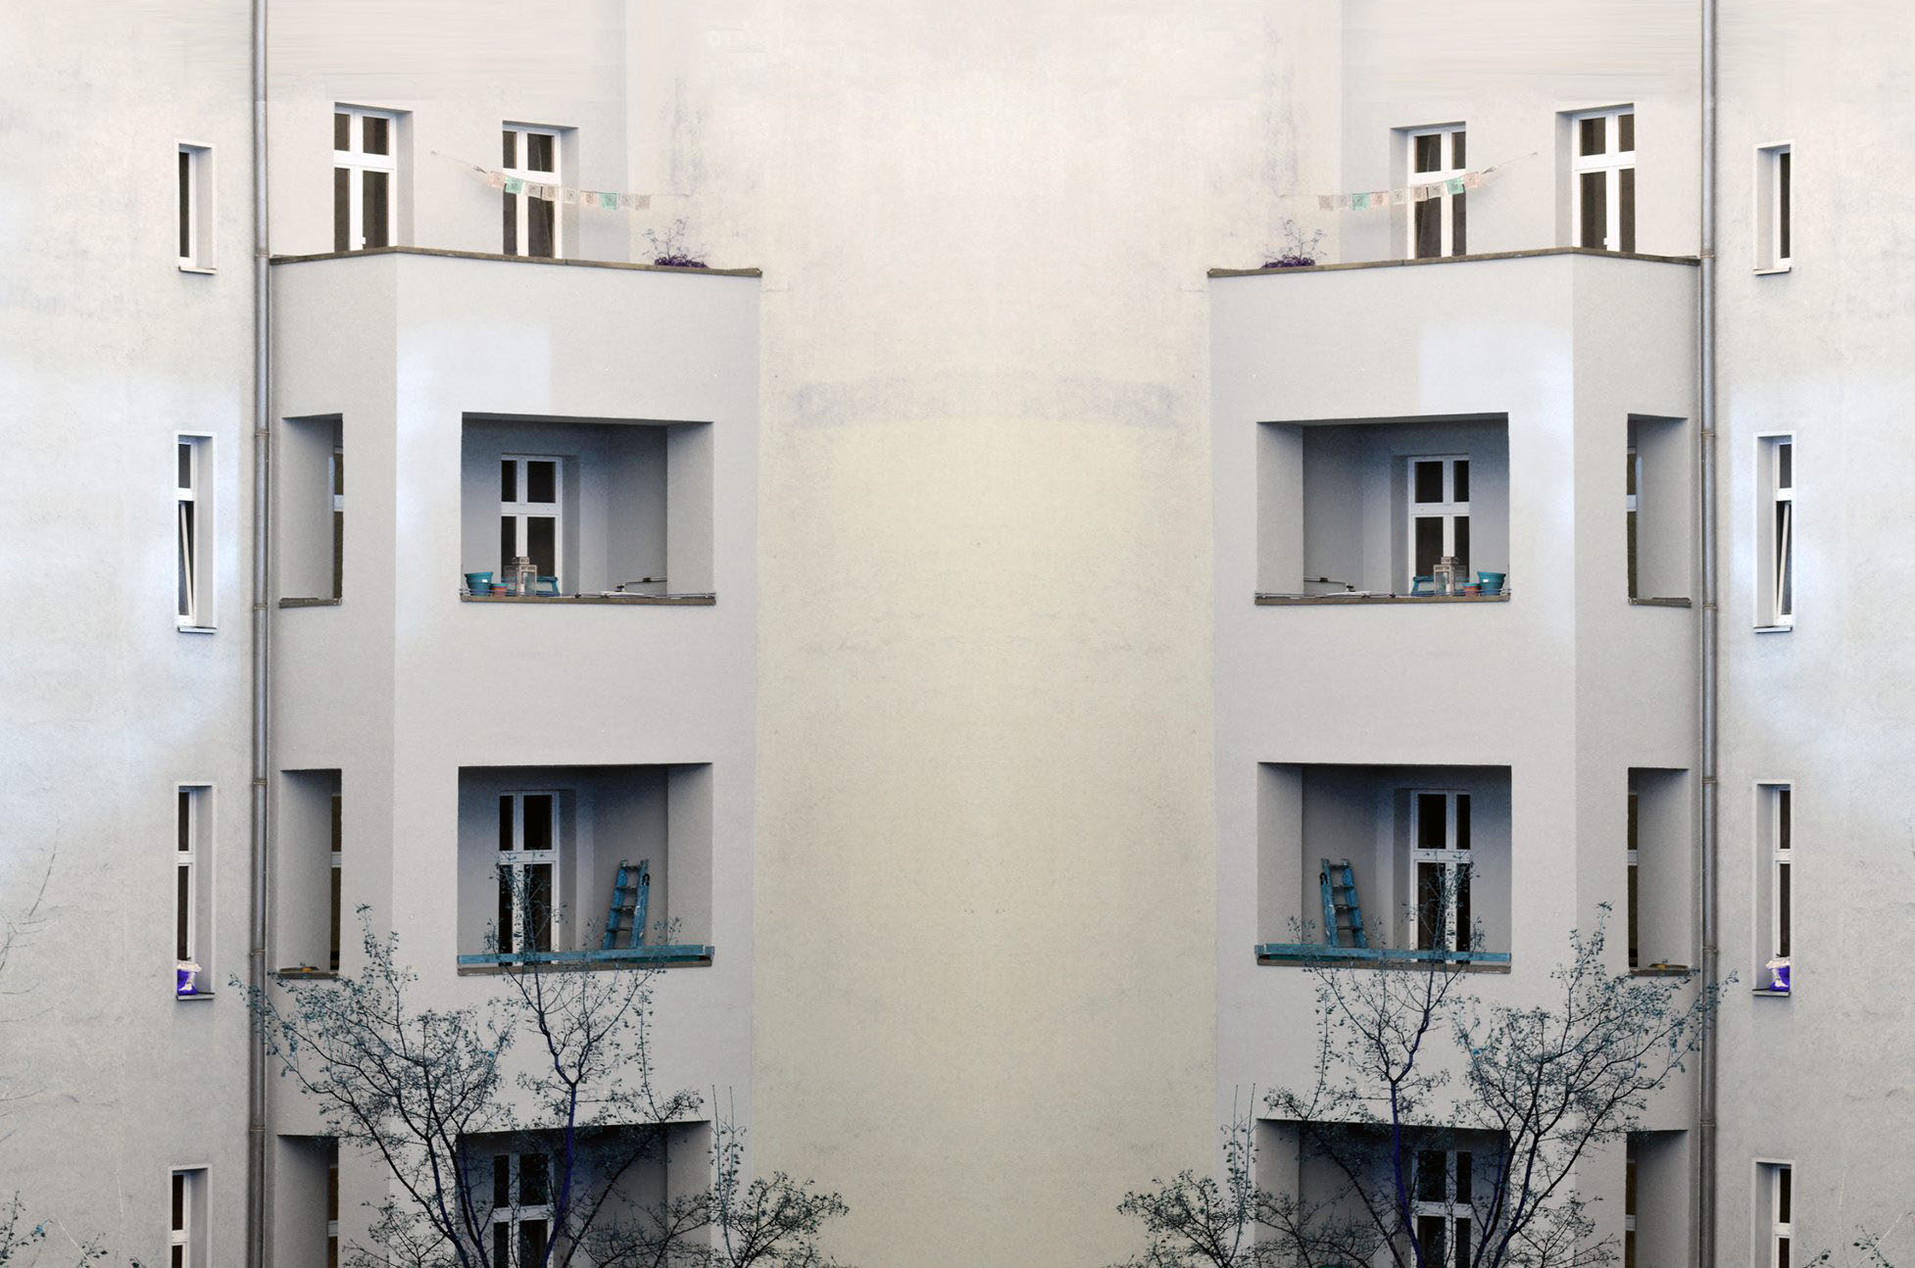
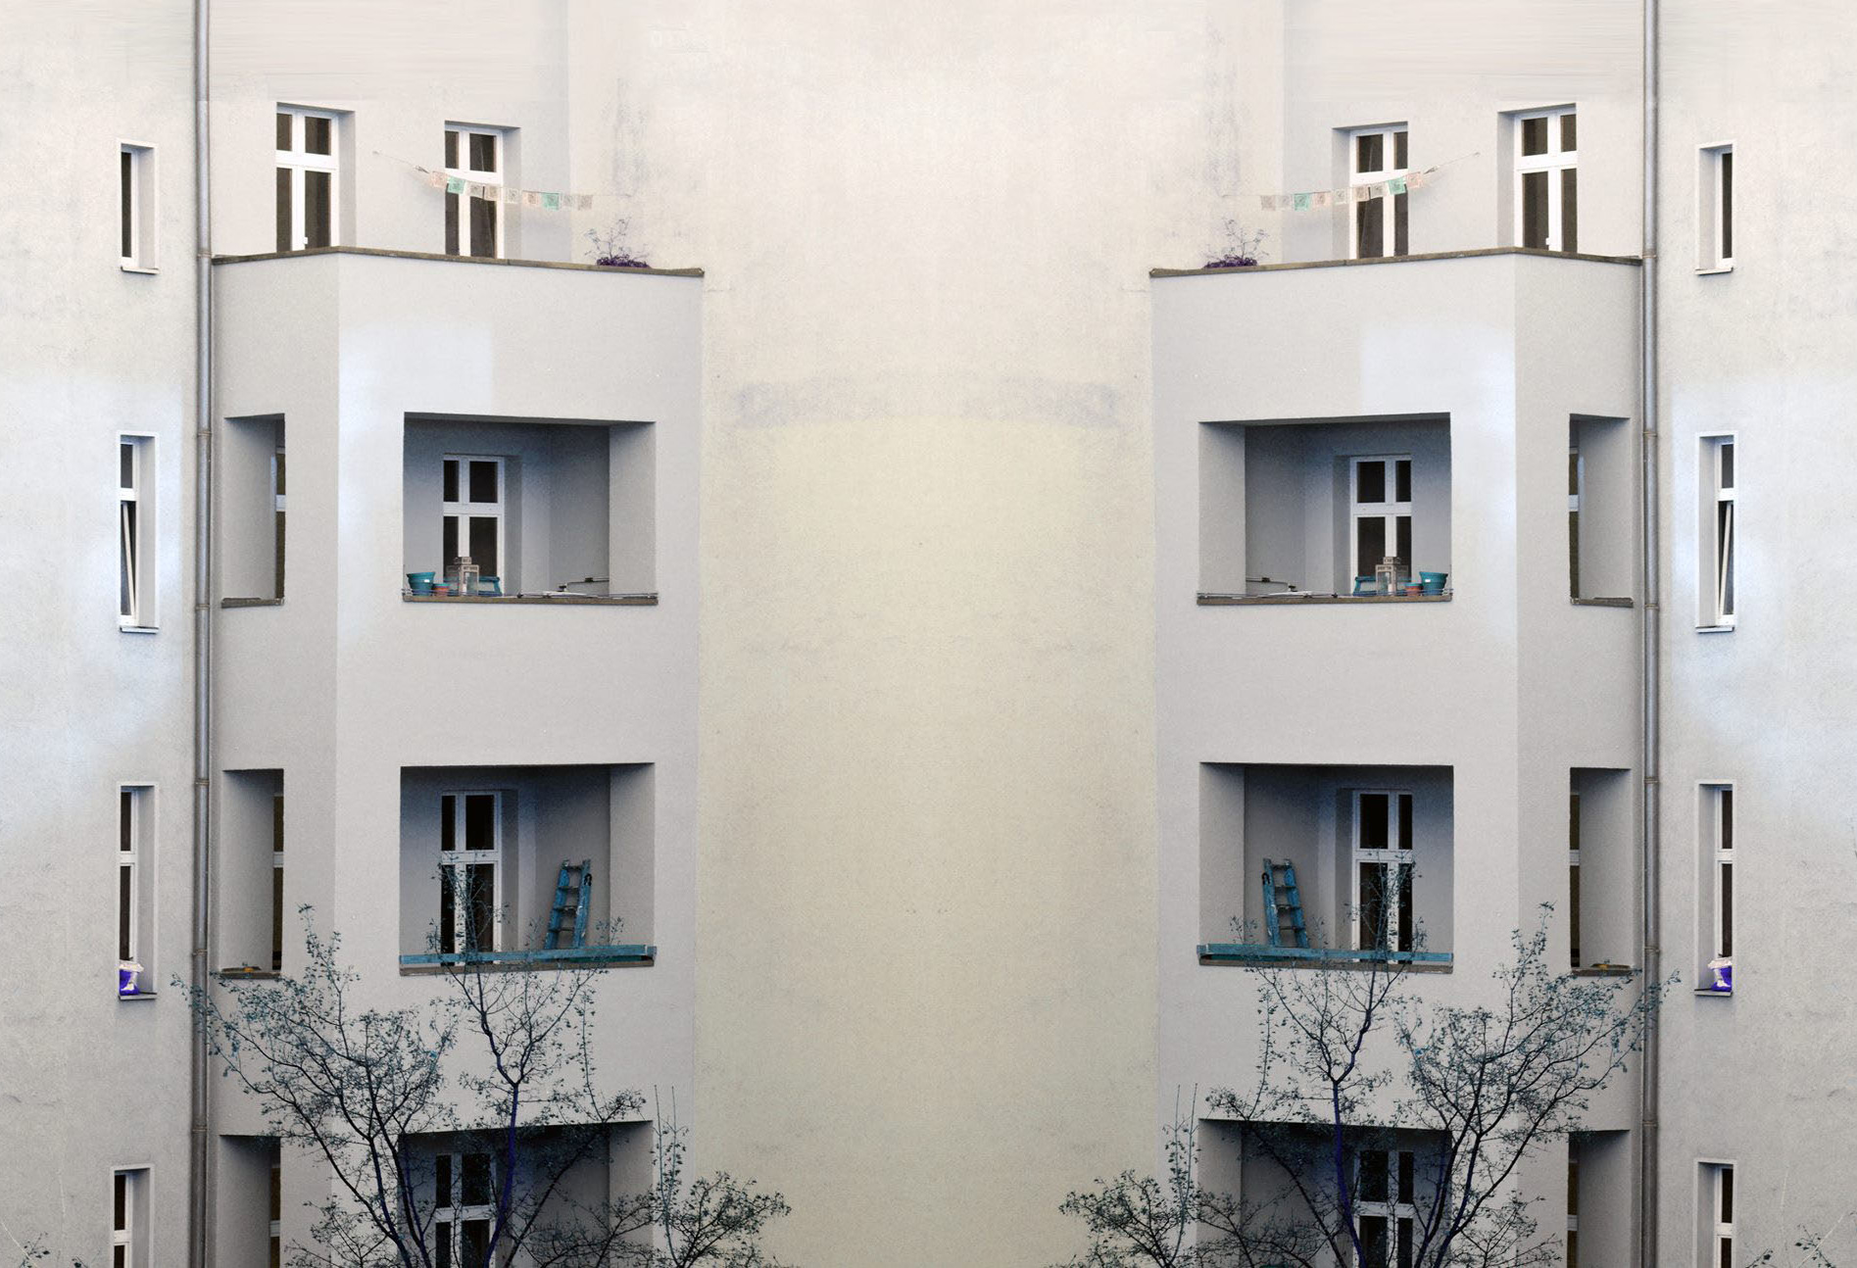
show images in υπηρεσίες without cropping

Changed region(s): [[0.0, 0.0, 0.4359, 1.0], [0.5604, 0.0, 0.9963, 1.0]]

diff --git a/index.html b/index.html
@@ -7,9 +7,10 @@
 		<link rel="icon" type="image/png" sizes="32x32" href="assets/title.png">
 		<link href="assets/css/styles.css" rel="stylesheet">
 
-		<link href="assets/fa/css/fontawesome.css" rel="stylesheet">
-		<link href="assets/fa/css/brands.css" rel="stylesheet">
-		<link href="assets/fa/css/solid.css" rel="stylesheet">
+		<link href="assets/fa/css/fontawesome.min.css" rel="stylesheet">
+		<link href="assets/fa/css/brands.min.css" rel="stylesheet">
+		<link href="assets/fa/css/solid.min.css" rel="stylesheet">
+		<link href="assets/fa/css/regular.min.css" rel="stylesheet">
 	</head>
 	<body>
 		<div class="sidebar d-flex flex-column flex-space-between br-1-gray p-40px">
@@ -32,6 +33,8 @@
 
 			<a class="cursor-pointer" href="assets/ΑΦΙΣΑ.pdf" target="_blank"><img src="assets/photos/espa.jpg" class="w-100 object-fit-contain" alt="ΕΣΠΑ 2014 - 2020" /> </a>
 		</div>
+
+
 		<div id="content" class="content">
 			<div role="main">
 				<div id="home" class="b-image d-flex flex-column align-items-center text-white">
@@ -40,19 +43,16 @@
 
 					<a href="#bio"><div class="bg-white text-black fs-18px br-4px p-10px mt-20px">Περισσότερα</div></a>
 				</div>
-			
+
+
 				<div id="bio" class="px-up-to-m-50px px-from-m-100px py-50px bb-2-gray">
 					<div>Βασιλική Βασιλοπούλου πολιτικός μηχανικός</div>
-
-					<ul class="mt-5px">
-						<li>
-							Απόφοιτος της Πολυτεχνικής σχολής του Πανεπιστημίου Πατρών το 2007, με μεταπτυχιακές σπουδές στον 
-							¨Αντισεισμικό σχεδιασμό των κατασκευών¨ το 2009 στο ίδιο Πανεπιστήμιο.
-						</li>
-						<li>Μέλος του Τ.Ε.Ε. από το 2007</li>
-						<li>Ελεγκτής Δόμησης από το 2012 με Α.Μ.624</li>
-						<li>Ενεργειακός επιθεωρητής από το 2013 με Α.Μ. 10025</li>
-					</ul>
+						<div class="ml-20px">
+							- Απόφοιτος της Πολυτεχνικής σχολής του Πανεπιστημίου Πατρών το 2007, με μεταπτυχιακές σπουδές στον ¨Αντισεισμικό σχεδιασμό των κατασκευών¨ το 2009 στο ίδιο Πανεπιστήμιο.
+						</div>
+						<div class="ml-20px">- Μέλος του Τ.Ε.Ε. από το 2007</div>
+						<div class="ml-20px">- Ελεγκτής Δόμησης από το 2012 με Α.Μ.624</div>
+						<div class="ml-20px">- Ενεργειακός επιθεωρητής από το 2013 με Α.Μ. 10025</div>
 
 					<div class="mt-5px">
 						Το έτος 2010 πραγματοποιεί στην Πάτρα την έναρξη λειτουργίας γραφείου με αντικείμενο μελέτες και επιβλέψεις, 
@@ -68,85 +68,96 @@
 						τον σχεδιασμό του ξυλοτύπου κ.λ.π.
 					</div>
 
-					<div class="mt-5px">
-						Βασική επιδίωξη του γραφείου γενικότερα είναι:
-						<ul class="mt-5px">
-							<li>O σεβασμός και η σωστή ένταξη κάθε κατασκευής στο περιβάλλον.</li>
-							<li>Η τήρηση της ανθρώπινης κλίμακας και του μέτρου στον σχεδιασμό και την υλοποίηση κάθε κατασκευής.</li>
-							<li>Η παρακολούθηση των σύγχρονων αναγκών των χρηστών και η προσπάθεια να επιτυγχάνονται λύσεις με συνδυασμό την εφικτότητα και την οικονομία.</li>
-						</ul> 
+					<div class="mt-5px">Βασική επιδίωξη του γραφείου γενικότερα είναι:</div>
+							
+							
+					<div class="d-flex align-items-center">
+						<i class="fa-regular fa-circle fs-8px"></i>
+						<span class="ml-3px">O σεβασμός και η σωστή ένταξη κάθε κατασκευής στο περιβάλλον.</span>
+					</div>
+
+					<div class="d-flex align-items-center">
+						<i class="fa-regular fa-circle fs-8px"></i>
+						<span class="ml-3px">Η τήρηση της ανθρώπινης κλίμακας και του μέτρου στον σχεδιασμό και την υλοποίηση κάθε κατασκευής.</span>
+					</div>
+
+					<div class="d-flex align-items-center">
+						<i class="fa-regular fa-circle fs-8px"></i>
+						<span class="ml-3px">Η παρακολούθηση των σύγχρονων αναγκών των χρηστών και η 
+						προσπάθεια να επιτυγχάνονται λύσεις με συνδυασμό την εφικτότητα και την οικονομία.</span>
 					</div>
 				</div>
+
 
 				<div id="projects" class="px-up-to-m-50px px-from-m-100px py-50px bb-2-gray">
 					<!-- Desktop -->
 					<div class="d-up-to-m-none">
 						<div class="d-flex">
-							<div class="w-33 p-10px">
-								<div class="p-20px b-1-light-gray br-4px">
-									<img class="w-100 h-250px object-fit-cover" src="assets/photos/photo1.jpg" alt="Project Photo 1" />
+							<div class="w-30 px-10px">
+								<div class="d-flex flex-column flex-space-between image-same-size-1st-row p-20px b-1-light-gray br-4px">
+									<img class="w-100" src="assets/photos/photo1.jpg" alt="Project Photo 1" />
 
-									<div class="mt-10px">Τριωροφη οικοδομή δύο Κατοικιών στο 'Προάστειο' Πατρών - Πρόσοψη</div>
+									<div class="mt-10px">Τριωροφη οικοδομή δύο κατοικιών στο 'Προάστειο' Πατρών - Πρόσοψη</div>
 								</div>
 							</div>
 
-							<div class="w-33 p-10px">
-								<div class="p-20px b-1-light-gray br-4pxx">
-									<img class="w-100 h-250px object-fit-cover" src="assets/photos/photo2.jpg" alt="Project Photo 2" />
+							<div class="w-39 px-10px" style="width: 39%;">
+								<div class="d-flex flex-column flex-space-between image-same-size-1st-row p-20px b-1-light-gray br-4pxx">
+									<img class="w-100" src="assets/photos/photo2.jpg" alt="Project Photo 2" />
 
-									<div class="mt-10px">Τριωροφη οικοδομή δύο Κατοικιών στο 'Προάστειο' Πατρών - Πίσω όψη</div>
+									<div class="mt-10px">Τριωροφη οικοδομή δύο κατοικιών στο 'Προάστειο' Πατρών - Πίσω όψη</div>
 								</div>
 							</div>
 
-							<div class="w-33 p-10px">
-								<div class="p-20px b-1-light-gray br-4px">
-									<img class="w-100 h-250px object-fit-cover" src="assets/photos/photo3.jpg" alt="Project Photo 3" />
+							<div class="w-30 px-10px">
+								<div class="d-flex flex-column flex-space-between image-same-size-1st-row p-20px b-1-light-gray br-4px">
+									<img class="w-100" src="assets/photos/photo6.jpg" alt="Project Photo 6" />
 
-									<div class="mt-10px">Προσθήκη Β' Ορόφου σε κατοικία στην Εγλυκάδα Πατρών - Πριν</div>
+									<div class="mt-10px">Ισόγεια κατοικία στην Αγυιά Πατρών</div>
 								</div>
 							</div>
 						</div>
 
 						<div class="d-flex mt-50px">
-							<div class="w-33 p-10px">
-								<div class="p-20px b-1-light-gray br-4px">
-									<img class="w-100 h-250px object-fit-cover" src="assets/photos/photo4.jpg" alt="Project Photo 4" />
+							<div class="w-33 px-10px">
+								<div class="d-flex flex-column flex-space-between image-same-size-2nd-row p-20px b-1-light-gray br-4px">
+									<img class="w-100" src="assets/photos/photo3.jpg" alt="Project Photo 3" />
+
+									<div class="mt-10px">Προσθήκη Β' Ορόφου σε κατοικία στην Εγλυκάδα Πατρών - Πριν</div>
+								</div>
+							</div>
+
+							<div class="w-33 px-10px">
+								<div class="d-flex flex-column flex-space-between p-20px image-same-size-2nd-row b-1-light-gray br-4px">
+									<img class="w-100" src="assets/photos/photo4.jpg" alt="Project Photo 4" />
 
 									<div class="mt-10px">Προσθήκη Β' Ορόφου σε κατοικία στην Εγλυκάδα Πατρών - Μετά</div>
 								</div>
 							</div>
 
-							<div class="w-33 p-10px">
-								<div class="p-20px b-1-light-gray br-4px">
-									<img class="w-100 h-250px object-fit-cover" src="assets/photos/photo5.jpg" alt="Project Photo 5" />
+							<div class="w-33 px-10px">
+								<div class="d-flex flex-column flex-space-between p-20px image-same-size-2nd-row b-1-light-gray br-4px">
+									<img class="w-100" src="assets/photos/photo5.jpg" alt="Project Photo 5" />
 
 									<div class="mt-10px">Προσθήκη Β' Ορόφου σε κατοικία στην Εγλυκάδα Πατρών - 3D Απεικόνιση</div>
-								</div>
-							</div>
-
-							<div class="w-33 p-10px">
-								<div class="p-20px b-1-light-gray br-4px">
-									<img class="w-100 h-250px object-fit-cover" src="assets/photos/photo6.jpg" alt="Project Photo 6" />
-
-									<div class="mt-10px">Ισόγεια κατοικία Αγυιά Πατρών</div>
 								</div>
 							</div>
 						</div>
 
 						<div class="d-flex mt-50px">
-							<div class="w-33 p-10px">
-								<div class="p-20px b-1-light-gray br-4px">
-									<img class="w-100 h-250px object-fit-cover" src="assets/photos/photo7.jpg" alt="Project Photo 7" />
-
-									<div class="mt-10px">Άδεια λειτουργίας μικροβιολογικού εργαστηρίου στην Πάτρα</div>
-								</div>
-							</div>
-
-							<div class="w-33 p-10px">
-								<div class="p-20px b-1-light-gray br-4px">
-									<img class="w-100 h-250px object-fit-cover" src="assets/photos/photo8.jpg" alt="Project Photo 8" />
+							<div class="w-33 px-10px">
+								<div class="d-flex flex-column flex-space-between image-same-size-3rd-row p-20px b-1-light-gray br-4px">
+									<img class="w-100" src="assets/photos/photo8.jpg" alt="Project Photo 8" />
 
 									<div class="mt-10px">Άδεια λειτουργίας μικροβιολογικού εργαστηρίου στην Πάτρα (2)</div>
+								</div>
+							</div>
+							
+							<div class="w-35 px-10px">
+								<div class="d-flex flex-column flex-space-between image-same-size-3rd-row p-20px b-1-light-gray br-4px">
+									<img class="w-100" src="assets/photos/photo7.jpg" alt="Project Photo 7" />
+									
+									<div class="mt-10px">Άδεια λειτουργίας μικροβιολογικού εργαστηρίου στην Πάτρα</div>
 								</div>
 							</div>
 						</div>
@@ -155,54 +166,55 @@
 					<!-- Mobile -->
 					<div class="d-from-m-none">
 						<div class="p-20px b-1-light-gray br-4px">
-							<img class="w-100 h-250px object-fit-cover" src="assets/photos/photo1.jpg" alt="Project Photo 1" />
+							<img class="w-100" src="assets/photos/photo1.jpg" alt="Project Photo 1" />
 
 							<div class="mt-10px">Τριωροφη οικοδομή δύο Κατοικιών στο 'Προάστειο' Πατρών - Πρόσοψη</div>
 						</div>
 
-						<div class="p-20px b-1-light-gray br-4pxx">
-							<img class="w-100 h-250px object-fit-cover" src="assets/photos/photo2.jpg" alt="Project Photo 2" />
+						<div class="p-20px b-1-light-gray br-4px mt-30px">
+							<img class="w-100" src="assets/photos/photo2.jpg" alt="Project Photo 2" />
 
 							<div class="mt-10px">Τριωροφη οικοδομή δύο Κατοικιών στο 'Προάστειο' Πατρών - Πίσω όψη</div>
 						</div>
 
-						<div class="p-20px b-1-light-gray br-4px">
-							<img class="w-100 h-250px object-fit-cover" src="assets/photos/photo3.jpg" alt="Project Photo 3" />
+						<div class="p-20px b-1-light-gray br-4px mt-30px">
+							<img class="w-100" src="assets/photos/photo3.jpg" alt="Project Photo 3" />
 
 							<div class="mt-10px">Προσθήκη Β' Ορόφου σε κατοικία στην Εγλυκάδα Πατρών - Πριν</div>
 						</div>
 
-						<div class="p-20px b-1-light-gray br-4px">
-							<img class="w-100 h-250px object-fit-cover" src="assets/photos/photo4.jpg" alt="Project Photo 4" />
+						<div class="p-20px b-1-light-gray br-4px mt-30px">
+							<img class="w-100" src="assets/photos/photo4.jpg" alt="Project Photo 4" />
 
 							<div class="mt-10px">Προσθήκη Β' Ορόφου σε κατοικία στην Εγλυκάδα Πατρών - Μετά</div>
 						</div>
 
-						<div class="p-20px b-1-light-gray br-4px">
-							<img class="w-100 h-250px object-fit-cover" src="assets/photos/photo5.jpg" alt="Project Photo 5" />
+						<div class="p-20px b-1-light-gray br-4px mt-30px">
+							<img class="w-100" src="assets/photos/photo5.jpg" alt="Project Photo 5" />
 
 							<div class="mt-10px">Προσθήκη Β' Ορόφου σε κατοικία στην Εγλυκάδα Πατρών - 3D Απεικόνιση</div>
 						</div>
 
-						<div class="p-20px b-1-light-gray br-4px">
-							<img class="w-100 h-250px object-fit-cover" src="assets/photos/photo6.jpg" alt="Project Photo 6" />
+						<div class="p-20px b-1-light-gray br-4px mt-30px">
+							<img class="w-100" src="assets/photos/photo6.jpg" alt="Project Photo 6" />
 
 							<div class="mt-10px">Ισόγεια κατοικία Αγυιά Πατρών</div>
 						</div>
 
-						<div class="p-20px b-1-light-gray br-4px">
-							<img class="w-100 h-250px object-fit-cover" src="assets/photos/photo7.jpg" alt="Project Photo 7" />
+						<div class="p-20px b-1-light-gray br-4px mt-30px">
+							<img class="w-100" src="assets/photos/photo7.jpg" alt="Project Photo 7" />
 
 							<div class="mt-10px">Άδεια λειτουργίας μικροβιολογικού εργαστηρίου στην Πάτρα</div>
 						</div>
 
-						<div class="p-20px b-1-light-gray br-4px">
-							<img class="w-100 h-250px object-fit-cover" src="assets/photos/photo8.jpg" alt="Project Photo 8" />
+						<div class="p-20px b-1-light-gray br-4px mt-30px">
+							<img class="w-100" src="assets/photos/photo8.jpg" alt="Project Photo 8" />
 
 							<div class="mt-10px">Άδεια λειτουργίας μικροβιολογικού εργαστηρίου στην Πάτρα (2)</div>
 						</div>
 					</div>
 				</div>
+
 
 				<div id="services" class="px-up-to-m-50px px-from-m-100px py-50px">
 					<!-- Desktop -->
@@ -227,7 +239,7 @@
 						<div class="d-flex mt-50px">
 							<div class="d-flex w-33">
 								<i class="fa-solid fa-ruler fs-23px"></i>
-								<div class="fs-18px ml-10px">Αποτυπώσεις κτιριων</div>
+								<div class="fs-18px ml-10px">Αποτυπώσεις κτιρίων</div>
 							</div>
 						
 							<div class="d-flex w-33 ml-5px">
@@ -308,6 +320,8 @@
 					</div>
 				</div>
 			</div>
+
+
 			<div id="footer" role="contentinfo">
 				<div class="px-up-to-m-50px px-from-m-100px py-50px bg-gray text-white">
 					<div>Τοποθεσία Γραφείου: <a href="https://www.google.com/maps/place/Φιλοποίμενος+49,+Πάτρα+262+21" class="text-white font-weight-bold bb-1-white-hover cursor-pointer" target="_blank">Φιλοποίμενος 49, 26221, Πάτρα.</a></div>
@@ -315,5 +329,25 @@
 				</div>
 			</div>
 		</div>
+
+		<script>
+			function makeImagesSameSize(className) {
+				imageElements = document.querySelectorAll('.' + className);
+				max_height = 0;
+				for (const el of imageElements) {
+					if (max_height < el.offsetHeight) {
+						max_height = el.offsetHeight;
+					}
+				}
+
+				for (const el of imageElements) {
+					el.style.height = max_height + 'px';
+				}
+			}
+
+			makeImagesSameSize('image-same-size-1st-row');
+			makeImagesSameSize('image-same-size-2nd-row');
+			makeImagesSameSize('image-same-size-3rd-row');
+		</script>
 	</body>
 </html>

diff --git a/assets/css/styles.css b/assets/css/styles.css
@@ -67,6 +67,10 @@ h2 {
 	margin: 0;
 }
 
+.fs-8px {
+	font-size: 8px;
+}
+
 .fs-18px {
 	font-size: 18px;
 }
@@ -133,6 +137,11 @@ h2 {
 	padding-bottom: 30px;
 }
 
+.px-10px {
+	padding-left: 10px;
+	padding-right: 10px;
+}
+
 .px-100px {
 	padding-left: 100px;
 	padding-right: 100px;
@@ -171,6 +180,10 @@ h2 {
 	margin-top: 250px;
 }
 
+.ml-3px {
+	margin-left: 3px;
+}
+
 .ml-5px {
 	margin-left: 5px;
 }
@@ -179,16 +192,28 @@ h2 {
 	margin-left: 10px;
 }
 
+.ml-20px {
+	margin-left: 20px;
+}
+
 .w-100 {
 	width: 100%;
+}
+
+.w-30 {
+	width: 30%;
 }
 
 .w-33 {
 	width: 33%;
 }
 
-.h-250px {
-	height: 250px;
+.w-35 {
+	width: 35%;
+}
+
+.w-39 {
+	width: 39%;
 }
 
 .w-400px {
